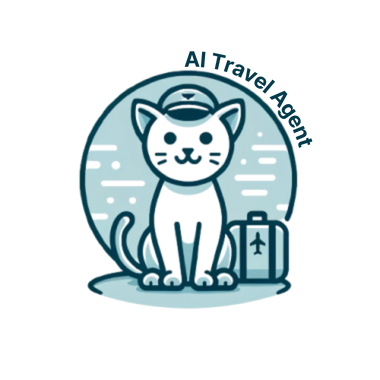
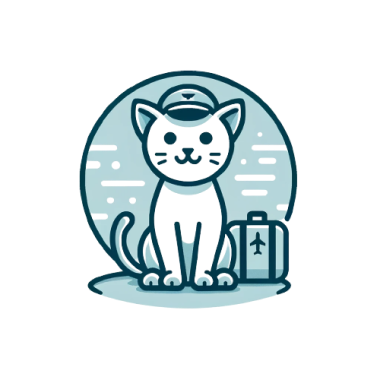
images update

Changed region(s): [[0.4921, 0.1158, 0.8395, 0.4053]]

diff --git a/index.html b/index.html
@@ -2,7 +2,11 @@
 <html lang="en">
   <head>
     <meta charset="UTF-8" />
-    <link rel="icon" type="image/svg+xml" href="src/assets/favicon.ico" />
+    <link
+      rel="icon"
+      type="image/svg+xml"
+      href="src/assets/AI_Travel_Agent.png"
+    />
     <meta name="viewport" content="width=device-width, initial-scale=1.0" />
     <title>AI Travel Agent</title>
   </head>
